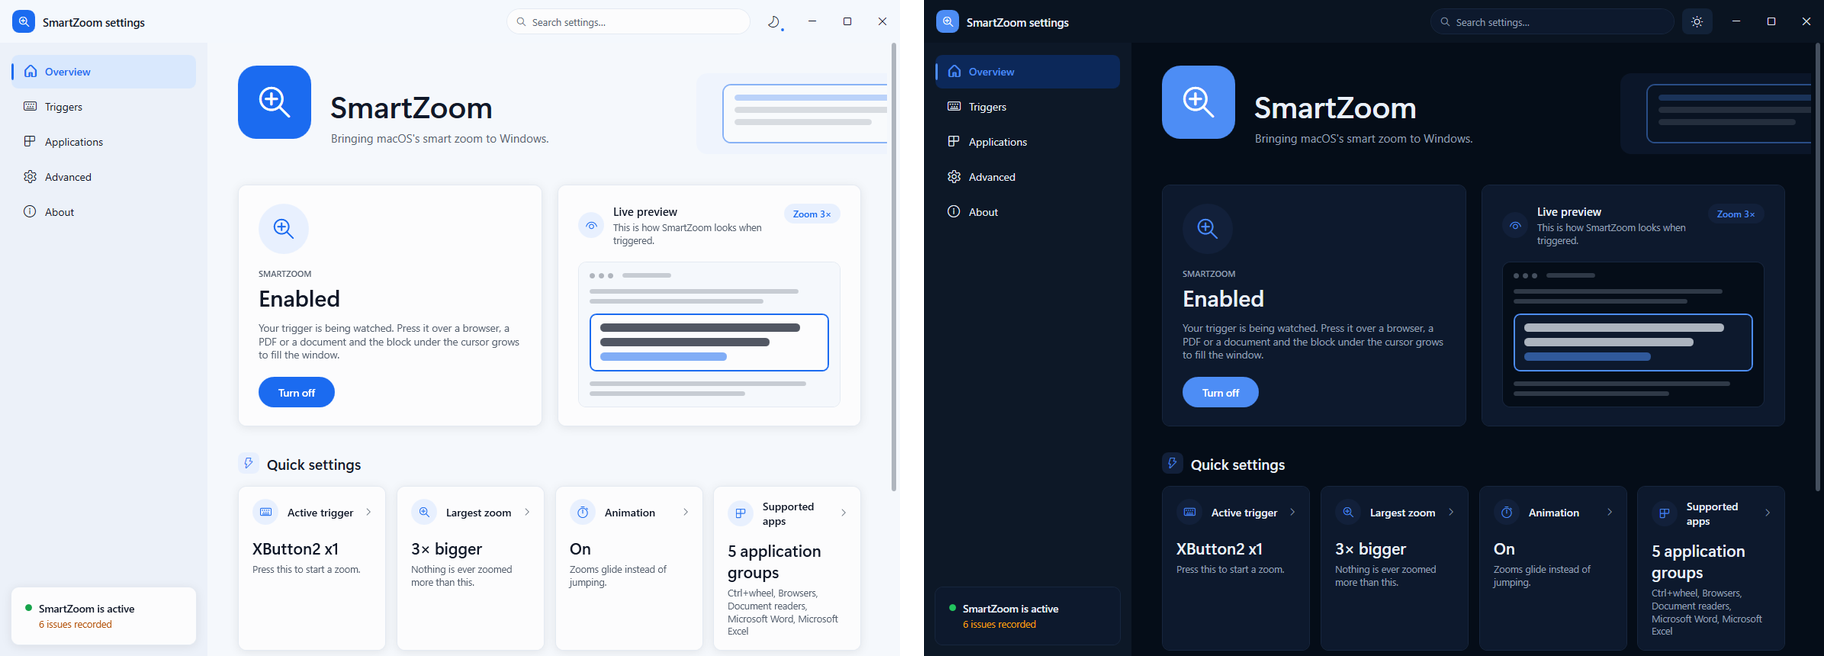
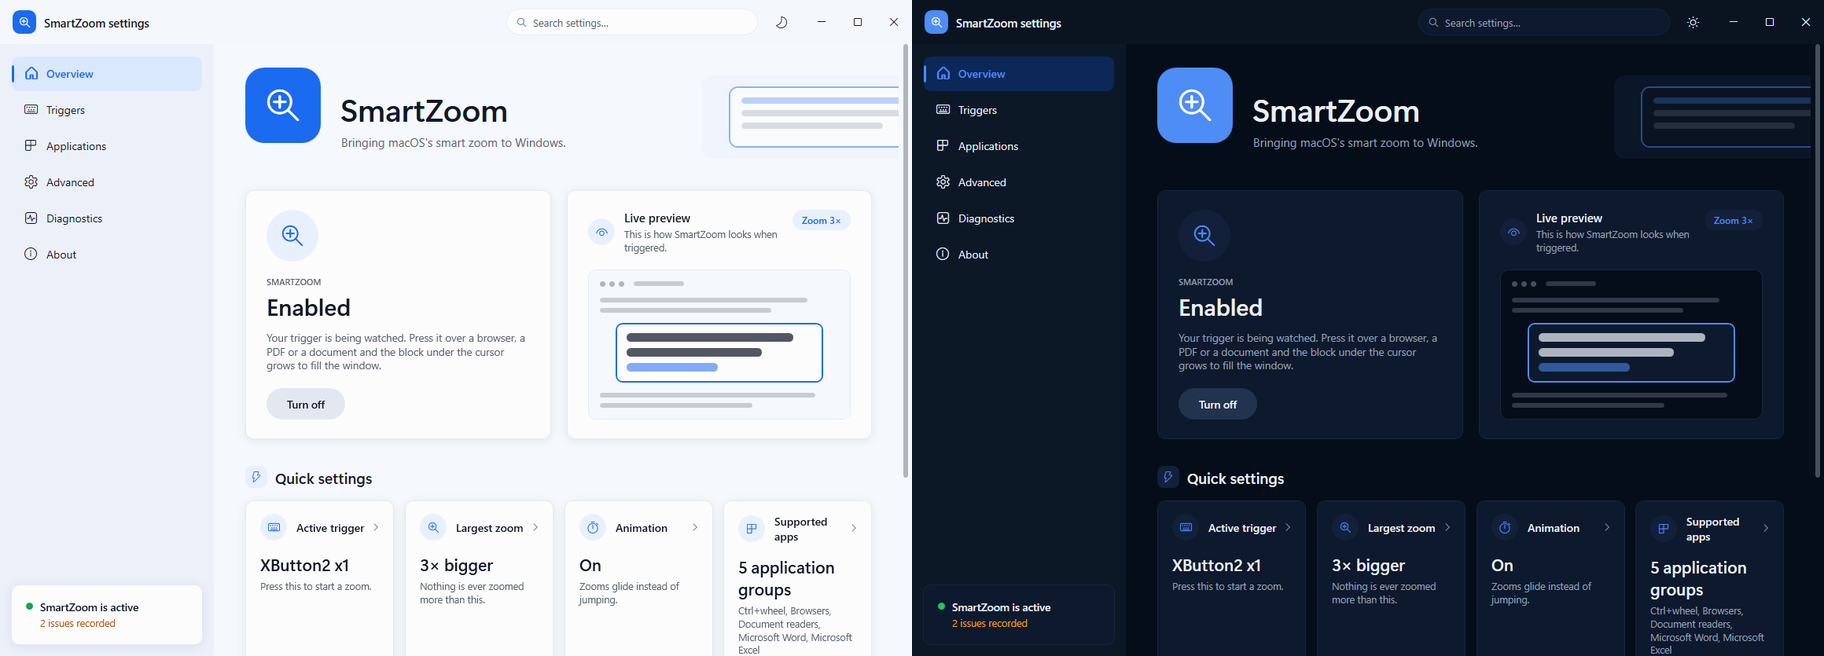
Refresh the README's settings-window shot for the current design
The screenshot still showed a five-row rail and an accent-coloured
"Turn off". Retaken in light and dark at the same 1824x656 framing, so
the README's layout is unchanged, and the caption now names the pages
rather than describing the rail vaguely.

The demo GIF and the before/after image were deliberately left alone:
they show the zoom behaviour in a browser, which none of this changed.

diff --git a/README.md b/README.md
@@ -43,7 +43,7 @@ dotnet test
 dotnet run --project src/SmartZoom.App
 ```
 
-![The settings window in light and dark: a navigation rail beside the Overview page, which shows whether SmartZoom is on, a preview of a zoom, and a card for each setting people change.](docs/media/settings-window.png)
+![The settings window in light and dark. A navigation rail — Overview, Triggers, Applications, Advanced, Diagnostics, About — beside the Overview page, which shows whether SmartZoom is on, a preview of what a zoom looks like, and a card for each setting people change.](docs/media/settings-window.png)
 
 SmartZoom runs in the notification area. A left click drops a small panel out of the tray with the few
 things people change most; a double-click — or right-click and **Settings…** — opens the settings window.
@@ -204,7 +204,9 @@ zoomed nothing, adapters that threw, and crashes — at `%LOCALAPPDATA%\SmartZoo
 it on demand as a report you can copy into a bug report. It's on by default; the same section has a switch to
 turn it off — written to your settings file at once, so it stays off — and a button to clear what's recorded.
 Nothing in it is sent anywhere — see [SECURITY.md](SECURITY.md) for exactly what it holds and what it never
-does.
+does. **Report a problem** builds that report with the log
+included, puts it on the clipboard and opens the bug form ready to paste it into — the browser makes that
+connection, not SmartZoom.
 
 ## Architecture
 
